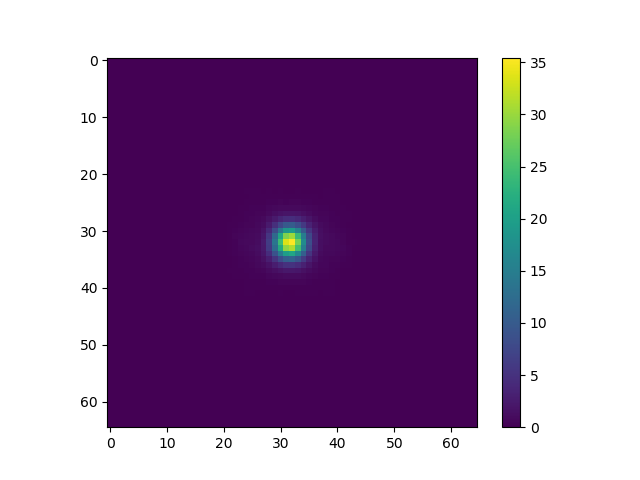
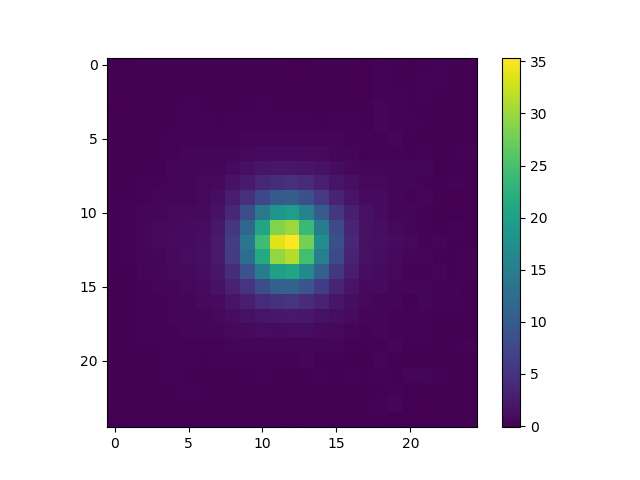
fixed bug in new coords for 2 step

diff --git a/new_galsim_deblend.py b/new_galsim_deblend.py
@@ -11,8 +11,8 @@ import sep
 import ngmix
 from ngmix.observation import Observation, ObsList, MultiBandObsList
 import numpy as np
-#import matplotlib.pyplot as plt
-#plt.switch_backend('agg')
+import matplotlib.pyplot as plt
+plt.switch_backend('agg')
 
 from numpy.linalg import LinAlgError
 from ngmix.gexceptions import BootGalFailure
@@ -704,15 +704,13 @@ def norm_test(args, sim):
             if sim['Steps'] == 'two':
                 cen_shape = cen_mod.shape
                 im_shape = np.shape(im)
-
                 #check if model dimensions are ever larger than image dims
                 #if larger, trim the dimensions
                 #This is sometimes an issue for low edge flux test
                 if cen_shape[1] > im_shape[1]:
-                    cen_shape = (1,im_shape[1],cen_shape[2])
+                    cen_shape = (len(im),im_shape[1],cen_shape[2])
                 if cen_shape[2] > im_shape[2]:
-                    cen_shape = (1,cen_shape[1],im_shape[2])
-
+                    cen_shape = (len(im),cen_shape[1],im_shape[2])
                 coord1 = coords[0]
                 half1 = cen_shape[1]/2.
                 half2 = cen_shape[2]/2.
@@ -733,9 +731,9 @@ def norm_test(args, sim):
                     for i in range(len(im)):
                         C,W = mod.rob_deblend(im,model,mod1,mod2,dims,i)
                         Cnoise,Wnoise = mod.rob_deblend(noise,model,mod1,mod2,dims,i)
-                        cen_obj[i:cen_shape[1],0:cen_shape[2]] = C[beg1:end1,beg2:end2,0]
-                        weights[i:cen_shape[1],0:cen_shape[2]] = W[beg1:end1,beg2:end2,0]
-                        mod_noise[i:cen_shape[1],0:cen_shape[2]] = Cnoise[beg1:end1,beg2:end2,0]
+                        cen_obj[i,0:cen_shape[1],0:cen_shape[2]] = C[beg1:end1,beg2:end2,0]
+                        weights[i,0:cen_shape[1],0:cen_shape[2]] = W[beg1:end1,beg2:end2,0]
+                        mod_noise[i,0:cen_shape[1],0:cen_shape[2]] = Cnoise[beg1:end1,beg2:end2,0]
                     shape = C[beg1:end1,beg2:end2,0].shape
                     new_coords = (dx1+(shape[1]-1.0)/2.0,dy1+(shape[0]-1.0)/2.0)
 
@@ -743,16 +741,13 @@ def norm_test(args, sim):
                     cen_obj = np.zeros(cen_shape)
                     weights = np.zeros(cen_shape)
                     mod_noise = np.zeros(cen_shape)
-                    
                     for i in range(len(im)):
                         C,W = mod.rob_deblend(im,model,mod1,mod2,dims,i)
                         Cnoise,Wnoise = mod.rob_deblend(noise,model,mod1,mod2,dims,i)
                         cen_obj[i] = C[beg1:end1,beg2:end2,0]
                         weights[i] = W[beg1:end1,beg2:end2,0]
                         mod_noise[i] = Cnoise[beg1:end1,beg2:end2,0]
-                    
-                        new_coords = (dx1+(cen_obj.shape[1]-1.0)/2.0,dy1+(cen_obj.shape[0]-1.0)/2.0)
-
+                        new_coords = (dx1+(cen_obj.shape[1]-1.0)/2.0,dy1+(cen_obj.shape[2]-1.0)/2.0)
                 #cen_obj_w_noise = mod.readd_noise(cen_obj,weights)
                 #shape = np.shape(cen_obj_w_noise)
                 #cen_obj_w_noise += noise[0:shape[0],0:shape[1]]

diff --git a/shear_analyze.py b/shear_analyze.py
@@ -8,7 +8,7 @@ import esutil as eu
 #parser.add_argument("filename",help="filename")
 #args = parser.parse_args()
 # this gets a list of all files that match the pattern
-flist = glob('/gpfs01/astro/workarea/lmezini/scarlet-tests/run192/run192_8-output-*.fits')
+flist = glob('/gpfs01/astro/workarea/lmezini/scarlet-tests/run196/run196_2-output-*.fits')
 #flist.append(glob('/gpfs01/astro/workarea/lmezini/scarlet-tests/run192/run192_12-output-*.fits'))
 #flist2 = glob('/gpfs01/astro/workarea/lmezini/scarlet-tests/run188/run188_2-*.fits')
 #flist3 = glob('/gpfs01/astro/workarea/lmezini/scarlet-tests/run188/run188_3-*.fits')
